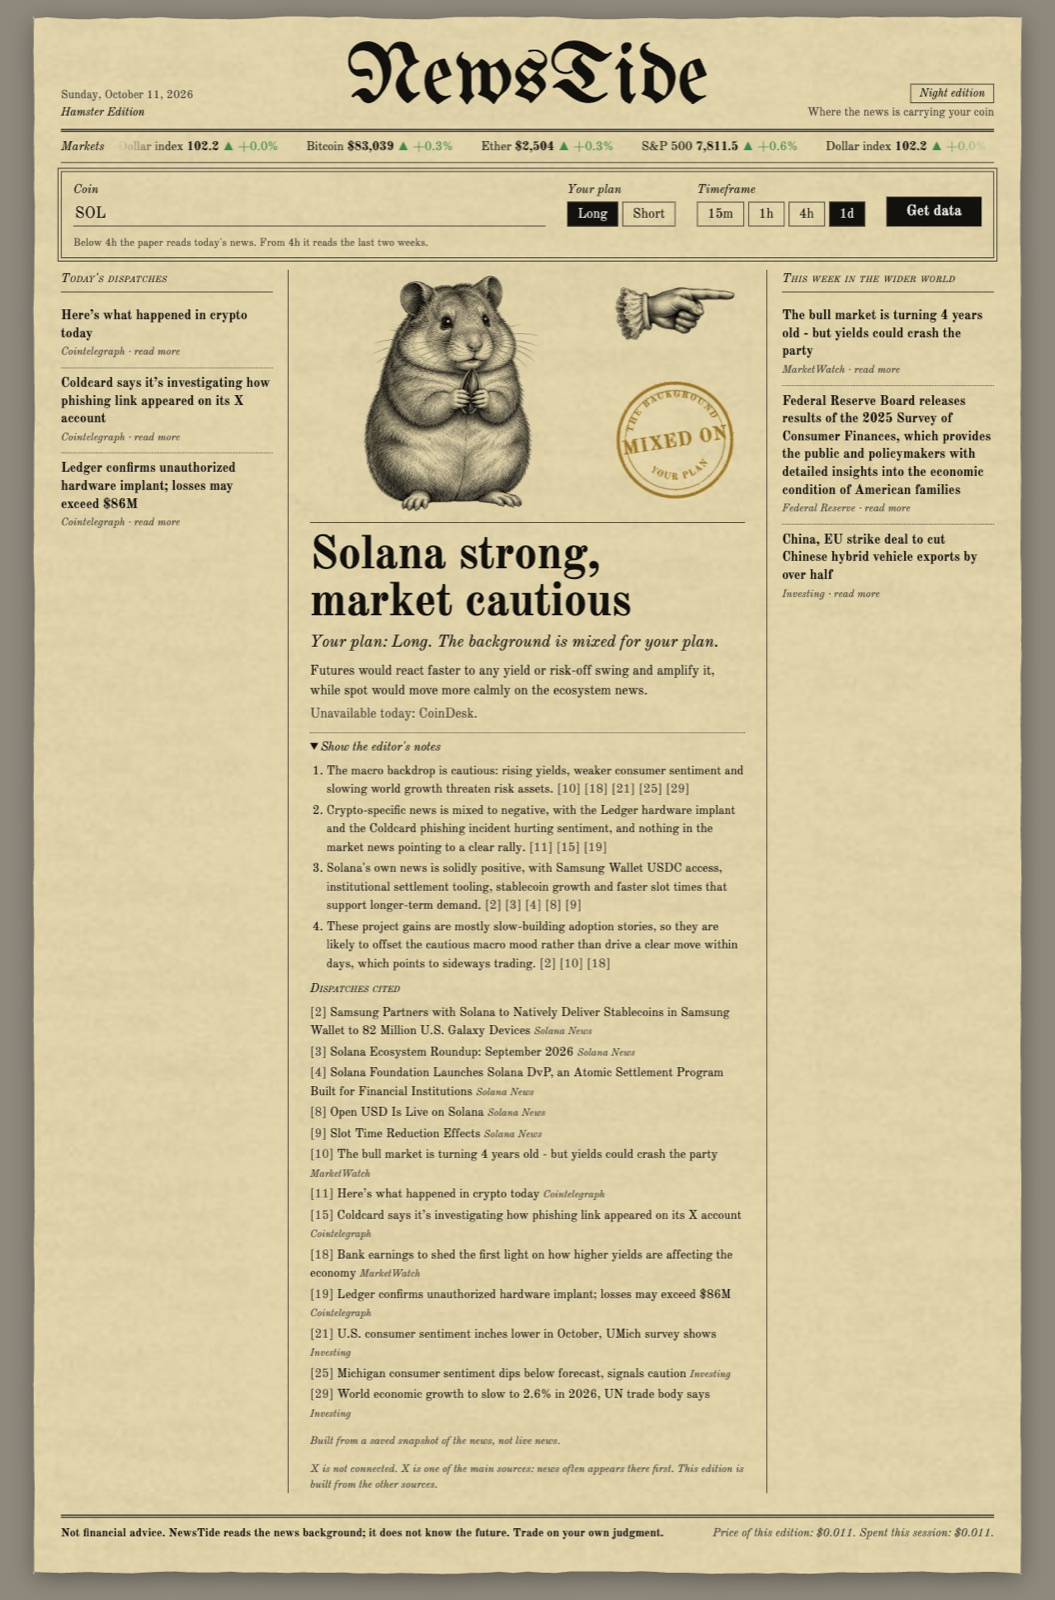
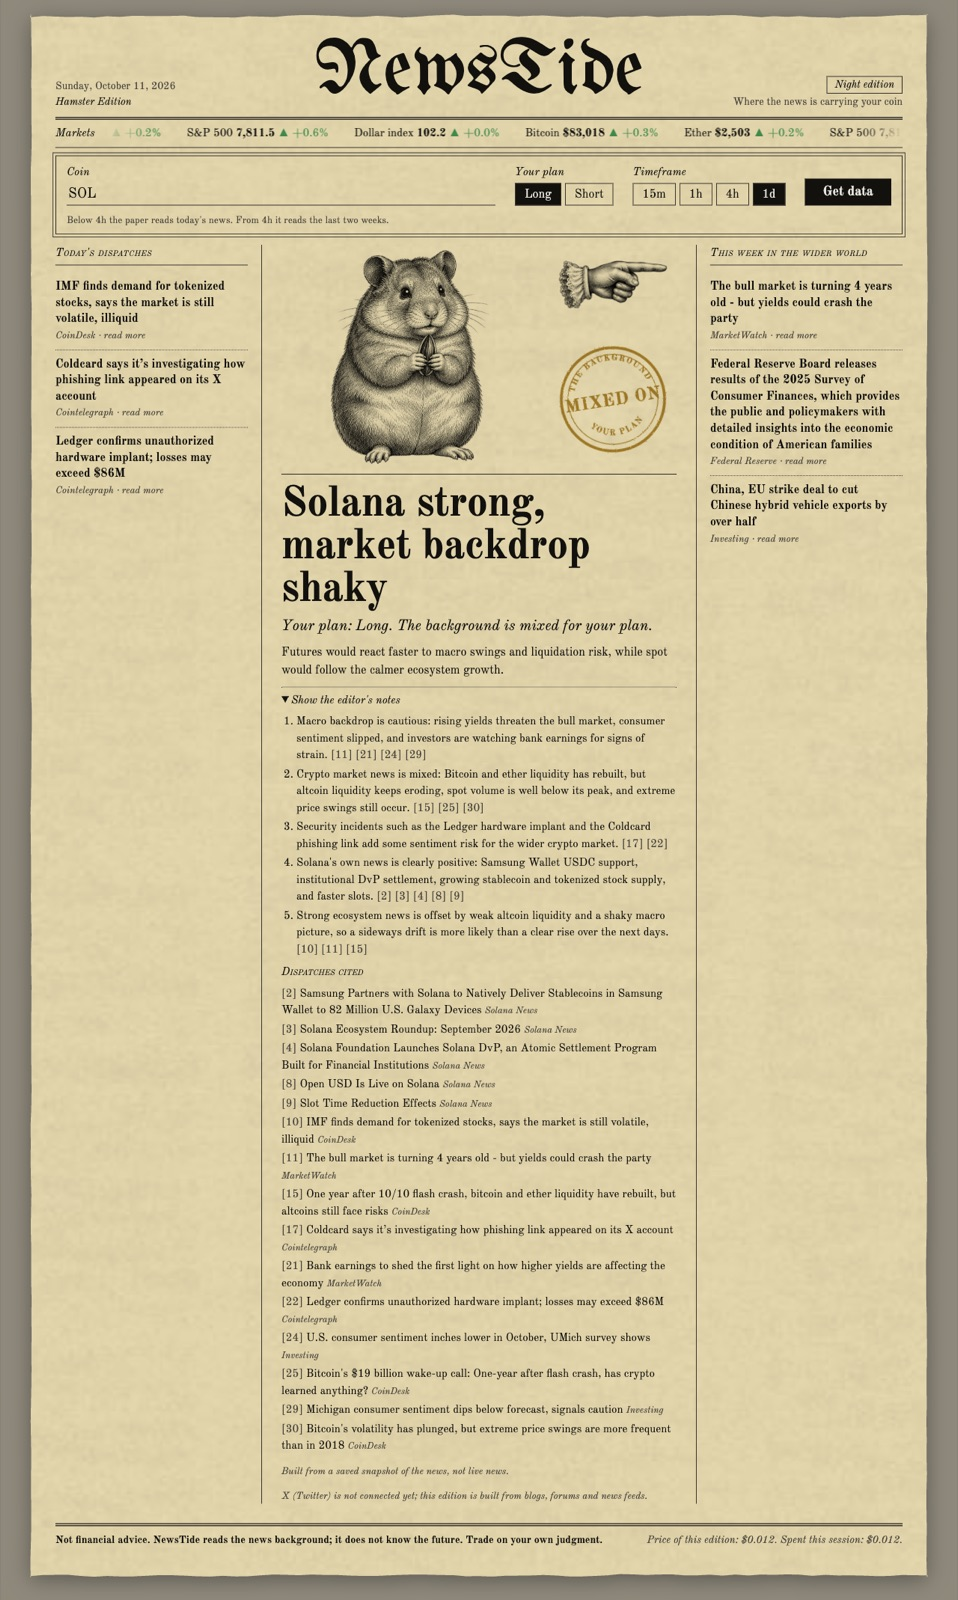
Pre-ship fixes from council review; docs match the build

Changed region(s): [[0.0303, 0.0, 0.9687, 1.0]]

diff --git a/server/index.js b/server/index.js
@@ -44,10 +44,12 @@ function costOf(usage, model) {
 }
 
 app.post('/api/analyze', async (req, res) => {
-  const { coin: symbol, plan, timeframe } = req.body ?? {};
+  const { plan, timeframe } = req.body ?? {};
+  const symbol = String(req.body?.coin ?? '').trim().toUpperCase();
   const coin = coins.find(c => c.symbol === symbol);
   if (!coin || !['long', 'short'].includes(plan) || !TIMEFRAMES.includes(timeframe)) {
-    return res.status(400).json({ error: 'Pick a coin from the list, Long or Short, and a timeframe.' });
+    const what = !coin ? 'Pick ETH, SOL or AAVE.' : !['long', 'short'].includes(plan) ? 'Choose Long or Short.' : 'Choose a timeframe: 15m, 1h, 4h or 1d.';
+    return res.status(400).json({ error: what });
   }
   const at = new Date().toISOString();
   try {
@@ -86,8 +88,14 @@ app.post('/api/analyze', async (req, res) => {
   } catch (err) {
     console.error('[analyze]', err);
     const timeout = err?.name === 'APIConnectionTimeoutError' || /timed? ?out/i.test(String(err?.message));
-    res.status(502).json({ error: timeout ? 'Took too long. Try again in a moment.' : 'The paper could not be printed: ' + (err?.message ?? 'unknown error') });
+    res.status(502).json({ error: timeout ? 'Took too long. Try again in a moment.' : 'The paper could not be printed this time. Try again in a moment.' });
   }
+});
+
+// Broken requests (for example invalid JSON) get a short JSON answer, never a stack trace.
+app.use((err, req, res, next) => {
+  if (res.headersSent) return next(err);
+  res.status(err.status && err.status < 500 ? err.status : 500).json({ error: 'Bad request.' });
 });
 
 const port = Number(process.env.PORT) || 3000;

diff --git a/public/index.html b/public/index.html
@@ -105,10 +105,10 @@
           <p class="cited-head">Dispatches cited</p>
           <ul id="cited"></ul>
         </details>
-        <p class="sample-tag" id="resultSample" hidden>Sample answer for the design check. No AI and no live news yet.</p>
+        <p class="sample-tag" id="resultSample" hidden>Built from a saved snapshot of the news, not live news.</p>
       </article>
       <p class="form-error" id="resultError" hidden></p>
-      <p class="x-note" id="xNote">X is not connected. X is one of the main sources: news often appears there first. This edition is built from the other sources.</p>
+      <p class="x-note" id="xNote">X (Twitter) is not connected yet; this edition is built from blogs, forums and news feeds.</p>
     </section>
 
     <aside class="column" aria-labelledby="weekHead">

diff --git a/server/collect.js b/server/collect.js
@@ -47,7 +47,8 @@ export function parseFeed(xml, feed) {
       date: new Date(text(it.pubDate) || text(it.published) || text(it.updated) || text(it['dc:date']) || 0).toISOString(),
       summary: clean(text(it.description) || text(it.summary) || text(it['content:encoded'])).slice(0, 400)
     }))
-    .filter(it => it.title);
+    // Daily round-up pages carry no news of their own.
+    .filter(it => it.title && !/^here['\u2019]s what happened in crypto today$/i.test(it.title));
 }
 
 async function fetchFeed(feed, timeoutMs = 12000) {

diff --git a/server/check.js b/server/check.js
@@ -40,7 +40,7 @@ export function check(answer, { plan, items }) {
     const bad = cites.filter(n => !numbers.has(n));
     if (!cites.length) problems.push(`step ${i + 1} cites nothing`);
     if (bad.length) problems.push(`step ${i + 1} cites dispatches that do not exist: ${bad.join(', ')}`);
-    c.cites = cites.filter(n => numbers.has(n));
+    c.cites = [...new Set(cites.filter(n => numbers.has(n)))].sort((a, b) => a - b);
   });
   fixed.chain = chain;
   const citesOk = chain.length > 0 && chain.every(c => c.cites.length > 0);

diff --git a/public/app.js b/public/app.js
@@ -106,7 +106,6 @@ function showResult(r, plan) {
   $('missing').textContent = r.missing_sources?.length ? `Unavailable today: ${r.missing_sources.join(', ')}.` : '';
   $('xNote').hidden = r.x_connected;
   $('resultSample').hidden = !r.sample;
-  $('resultSample').textContent = 'Built from a saved snapshot of the news, not live news.';
 
   // Editor's notes: the reasoning chain, closed by default
   const notes = r.notes ?? { chain: [], dispatches: [] };

diff --git a/test/check.test.js b/test/check.test.js
@@ -50,3 +50,8 @@ test('only http and https links survive', () => {
   assert.equal(safeLink('data:text/html,x'), '');
   assert.equal(safeLink('not a url'), '');
 });
+
+test('citations are de-duplicated and sorted', () => {
+  const r = check({ ...base, chain: [{ step: 's', cites: [3, 1, 3, 2] }] }, { plan: 'long', items });
+  assert.deepEqual(r.answer.chain[0].cites, [1, 2, 3]);
+});

diff --git a/devpost/prd.md b/devpost/prd.md
@@ -5,28 +5,28 @@ status: approved
 
 # NewsTide - Product Requirements
 
-NewsTide ("the tide of news": where the wave of the news background is carrying the coin) is a one-page indicator for a crypto trader: before a trade he picks a coin, long or short, and a timeframe, and gets one simple verdict on the news background, shown as an arrow, a traffic light and a few words.
+NewsTide ("the tide of news": where the wave of the news background is carrying the coin) is a one-page indicator for a crypto trader: before a trade he picks a coin, long or short, and a timeframe, and gets one simple verdict on the news background, shown as a pointing hand, an ink stamp and a few words.
 Source: `scope.md > The Unique Kernel`, `scope.md > Who It's For`.
 
 ## The Core Journey
 Develops `scope.md > The Core Loop` and `scope.md > What "Working" Looks Like`.
 
-1. He opens the page. At the top he sees a market strip: Bitcoin price, Nasdaq, the main news of the day and of the week.
-2. First use: he is offered to connect his X account, with a short explanation of why (news from X is read through his account; X is where information appears first). He can connect or skip.
+1. He opens the page. At the top he sees a running tape of quotes (Bitcoin, Ether, S&P 500, dollar index) and the main news of the day and of the week.
+2. A short note says X is not connected yet and why X matters (information often appears there first). Connecting X is deferred: reading X is paid per post (decision in `4-spec`).
 3. In the center he types a coin. Suggestions appear so the coin is entered correctly. In this version the list holds ETH, SOL and AAVE.
 4. He chooses Long or Short.
 5. He chooses the timeframe. Below 4h means intraday analysis; 4h and above means medium-term analysis.
 6. He presses **Get data**. The page shows how much time is left while the background is gathered, up to one minute.
-7. The result appears at the bottom: an arrow, a traffic light, a short verdict, a bull, a bear or a hamster, and the whole page tints green, red or yellowish.
+7. The result appears as the lead story: a pointing hand, an ink stamp, a short verdict, a bull, a bear or a hamster, and the whole page tints green, red or yellowish.
 8. He makes his trade decision and comes back before the next trade.
 
 ## Screens and Layout
 One page, top to bottom:
-- **Market strip (top):** Bitcoin price, Nasdaq, main news of the day and the week. Nicely designed and easy to read, so the page does not look empty.
+- **Market strip (top):** a running tape of 4 quotes, main news of the day and the week. Nicely designed and easy to read, so the page does not look empty.
 - **Input area (center):** coin field with suggestions, Long/Short choice, timeframe choice, in this order, then the **Get data** button.
 - **Result (bottom):** the indicator.
 - **Theme switch:** dark or light background, chosen by the user.
-- **X connection:** offered on first use, with the reason; can be skipped.
+- **X note:** X is not connected in this version; a one-line note explains why it matters.
 
 ## Look and Feel
 - Simple and understandable for anyone; not bright, not complicated; few moving parts. RSI is the reference for simplicity only, the indicator does not have to look like RSI (`scope.md > Inspiration & Identity`).
@@ -62,9 +62,9 @@ Develops `scope.md > The Unique Kernel`.
 - **Verdict text:** a few words only, for example "growth expected for this coin", "neutral for now", or "correction".
 - **Bull, bear or hamster** next to the arrow, and the page tint.
 - **Spot/futures note:** a short note where it may play out differently on spot vs futures (`scope.md > The POC Boundary`).
-- No percentages. No list of news. No long explanations.
+- No percentages. No list of the collected news on the page (the closed editor's notes list only the dispatches the verdict cites). No long explanations.
 - As the trader, I want one glance to tell me if the background is with my plan or against it, so that I do not have to read and connect dozens of news myself.
-  - [ ] After the three choices, the result shows an arrow, a traffic light and a verdict of a few words.
+  - [ ] After the three choices, the result shows a pointing hand, a stamp and a verdict of a few words.
   - [ ] Long on a coin with a bearish background shows an arrow down, a red light, a cheerful bear and a red page.
   - [ ] Long on a coin with a bullish background shows an arrow up, a green light, a smiling bull and a light green page.
   - [ ] Neutral background shows an arrow sideways, a yellow light, a hamster and a light yellowish page.
@@ -77,24 +77,24 @@ Develops `scope.md > The Unique Kernel`.
 
 ### Background gathering (hidden from the user)
 The mechanics are not shown, but they are the heart of the product and must be worked out carefully. Sources in this version:
-- the coin's official open Telegram channel;
-- the coin's X, read through the user's connected X account;
+- the coin's official blog and forum (ETH, SOL and AAVE have no open official Telegram channel, see `4-spec`);
+- the coin's X: deferred, paid per post;
 - macroeconomic sites (for example Investing);
 - general crypto market news.
 
 Inside, the indicator builds a logical chain: one factor affects another, that affects a third, down to our coin, plus the coin's own news (what is planned, what is done) and how it may affect the price.
-- [ ] For each of ETH, SOL, AAVE the gathering uses the coin's Telegram channel and the other sources above.
+- [ ] For each of ETH, SOL, AAVE the gathering uses the coin's official blog or forum and the other sources above.
 
 ### Market strip
 - [ ] The top of the page shows a running line of 4 quotes: Bitcoin, Ether, S&P 500, dollar index. It scrolls, fades out at the edge and repeats.
 - [ ] Main news of the day and the week are short headlines; clicking one opens a short summary and a link to the full story. These are market-wide news, not tied to one coin.
 
 ### X connection
-- [ ] On first use the page offers to connect X and explains why.
+- [ ] The page notes that X is not connected and why it matters.
 - [ ] Without X, the indicator still gives a verdict from the other sources, with a note that X is not connected and that X is one of the main sources, where information appears first.
 
 ## States and Boundaries
-- **First use:** X connection offer with the reason; skip is allowed.
+- **X not connected:** a one-line note; the verdict comes from the other sources.
 - **Without X:** verdict from the other sources plus the "X not connected" note.
 - **Bullish result:** arrow up, light green page, smiling bull.
 - **Bearish result:** arrow down, red page, cheerful bear.
@@ -103,14 +103,14 @@ Inside, the indicator builds a logical chain: one factor affects another, that a
 
 ## Product Decisions
 - No percentages: a model would invent the number; the learner called them "a bad idea" and chose a graphical direction.
-- Arrow plus traffic light together: the arrow shows direction, the light shows support for the plan.
+- Arrow plus traffic light together: the arrow shows direction, the light shows support for the plan. Later replaced by a pointing hand and an ink stamp after the design council (same meaning, one style).
 - News list is not shown: "the main thing is that a person sees just the conclusion"; the gathering is hidden. Exception agreed after the council: a closed "Show the editor's notes" line under the verdict opens the reasoning chain with the numbers of the cited dispatches, so a judge can see the verdict is not invented.
 - Name NewsTide: chosen from checked candidates; CoinPulse was rejected as heavily used (535 GitHub repos, an App Store crypto tracker, a Coinpulse token platform), and three-letter acronyms as mostly taken.
 - Neutral is a light yellowish page with a hamster.
 - Waiting shows the time remaining, up to one minute.
 - Newspaper-style design with custom illustrations: the review page looked "written by AI"; the learner wants a look tied to crypto and news, like an old newspaper.
 - Three coins now (ETH, SOL, AAVE), with suggestions; the list must be easy to extend later.
-- Telegram instead of Discord: Discord is closed to non-members; the official Telegram channel is open.
+- Telegram instead of Discord: Discord is closed to non-members. Later, in `4-spec`, no open official Telegram channels were found for ETH, SOL, AAVE, so official blogs and forums replaced Telegram.
 - The official website is skipped: projects usually do not publish news there.
 - X through the user's account; without X the indicator still works, with a note.
 - The timeframe decides intraday vs medium-term analysis. Picker: 15m, 1h, 4h, 1d.
@@ -120,11 +120,11 @@ Inside, the indicator builds a logical chain: one factor affects another, that a
 ## What We're Building
 - One page with the market strip, coin input with suggestions (3 coins), Long/Short, timeframe, and the indicator result.
 - Dark and light themes; page tint and bull/bear by result.
-- Background gathering from Telegram, X (when connected), macro sites, crypto news, reduced to one verdict.
-- X connection offer and the "without X" fallback.
+- Background gathering from the coins' official blogs and forums, macro sites and crypto news, reduced to one verdict.
+- The "X not connected" note.
 
 ## Deferred From the POC
-- Full coin list from CoinMarketCap: each coin needs its own Telegram and X sources; three coins prove the idea. The list must be extendable.
+- Full coin list from CoinMarketCap: each coin needs its own official sources; three coins prove the idea. The list must be extendable.
 - Discord: closed to non-members.
 - Geopolitics, stock market news, Bitcoin dominance, gold, oil: second stage, after the first sources work.
 - TradingView indicator: Pine Script cannot fetch news itself (to verify in `4-spec`).

diff --git a/devpost/spec.md b/devpost/spec.md
@@ -9,7 +9,7 @@ status: approved
 NewsTide is two small pieces running on Dima's Mac.
 
 1. **The page** is what you see in the browser: a newspaper-style front page with the market strip on top, the coin field, Long/Short, the timeframe, the **Get data** button and the indicator at the bottom. It is plain HTML, CSS and JavaScript, no framework (a framework is "a pile of decisions already made for you"; one page does not need it).
-2. **The little server** is a program on the same Mac. When you press Get data, the page asks the server. The server reads the news feeds (official project blogs and forums, crypto news, Investing, the US Federal Reserve), cuts them down to what matters for your coin and timeframe, and sends them to the AI model with one question: "given this background, where does the tide carry this coin, and is it with or against this plan?" The model answers in a fixed shape (arrow, light, a few words). The server passes that back to the page, together with what the answer cost.
+2. **The little server** is a program on the same Mac. When you press Get data, the page asks the server. The server reads the news feeds (official project blogs and forums, crypto news, Investing, the US Federal Reserve), cuts them down to what matters for your coin and timeframe, and sends them to the AI model with one question: "given this background, where does the tide carry this coin, and is it with or against this plan?" The model answers in a fixed shape (direction, whether it fits the plan, a few words, and the reasoning with citations). The server passes that back to the page, together with what the answer cost.
 
 Why a server at all: the Anthropic key must never be inside the page (anyone could read it), and many sites do not hand their feeds directly to a browser. Why nothing bigger: one person, one Mac, one video. No accounts, no database, no hosting.
 
@@ -18,7 +18,7 @@ You start it with one command, `npm start`, and open `http://localhost:3000`. No
 ## The Core Journey Through the System
 PRD ref: `prd.md > The Core Journey`.
 
-1. You open `localhost:3000` → the page asks the server for `/api/market` → the server fetches Bitcoin price (CoinGecko), Nasdaq (Yahoo Finance) and the newest headlines → the strip fills in.
+1. You open `localhost:3000` → the page asks the server for `/api/market` → the server fetches Bitcoin and Ether (CoinGecko), the S&P 500 and the dollar index (Yahoo Finance) and the newest headlines → the strip fills in.
 2. The page shows the X connection notice → in this version X is not built, so the notice says X is not connected and why it matters (see `What Was Simplified and Why`).
 3. You type a coin → the page suggests from the coin list it got from `/api/coins` (ETH, SOL, AAVE) → only a listed coin can be submitted.
 4. You choose Long or Short → kept in the page.
@@ -27,7 +27,7 @@ PRD ref: `prd.md > The Core Journey`.
 7. The server gathers: the coin's official feeds plus market-wide feeds, keeps items from the last 24 hours (intraday) or the last 14 days (medium-term), numbers them, and sends them to the model.
 8. The model returns `direction`, `plan_fit`, `verdict`, `spot_futures_note` and a hidden `chain` of cause and effect that cites item numbers.
 9. The server checks the answer against the rules (see `Answer Checker`), computes the cost from the token counts, saves the full run to a log file, and returns the visible parts plus the cost.
-10. The page shows the arrow, the traffic light, the verdict, the bull, bear or hamster, tints the page, and updates the cost counter.
+10. The page shows the pointing hand, the stamp, the verdict, the bull, bear or hamster, tints the page, and updates the cost counter.
 
 ## Stack
 - **Node.js 24** (installed: v24.14.1) runs the server. Its built-in `fetch` reads feeds; built-in `--env-file` loads `.env`, so no extra library for that. Docs: https://nodejs.org/docs/latest-v24.x/api/
@@ -50,7 +50,7 @@ PRD ref: `prd.md > The Core Journey`.
 Carries `prd.md > Look and Feel` and `scope.md > Inspiration & Identity`.
 - **An old printed newspaper being opened.** Off-white newsprint background, black ink, thin column rules, a masthead "NewsTide" at the top like a newspaper title, date line under it.
 - **Typography:** a classic newspaper serif for the masthead and headlines (for example Old Standard TT or Playfair Display from Google Fonts), a readable serif for small text. Uppercase small labels like section names.
-- **Market strip** as a ticker line under the masthead: BTC, Nasdaq, then "Today" and "This week" headlines in narrow columns.
+- **Market strip** as a running tape under the masthead: Bitcoin, Ether, S&P 500, dollar index, then "Today" and "This week" headlines in narrow columns.
 - **Dark theme** as a "night edition": dark paper, light ink. A small switch in the masthead corner.
 - **Verdict tints:** the paper washes light green (bullish), red (bearish), light yellowish (neutral). Gentle color, not bright.
 - **Pointing hand** (engraved manicule, `public/img/hand.jpg`, rotated by CSS) and **round ink stamp** (inline SVG with a rough-edge filter) replace the arrow and the traffic light.
@@ -68,8 +68,8 @@ Carries `prd.md > Look and Feel` and `scope.md > Inspiration & Identity`.
 PRD ref: `prd.md > Screens and Layout`, `prd.md > Coin input`, `prd.md > Plan and timeframe`, `prd.md > Waiting for the result`.
 
 ### Indicator View
-Part of `public/app.js`: turns the answer into arrow, light, verdict, animal, page tint, spot/futures note and the "X not connected" note.
-- direction `up` → arrow up, bull, green tint; `down` → arrow down, bear, red tint; `sideways` → arrow sideways, hamster, yellowish tint.
+Part of `public/app.js`: turns the answer into pointing hand, stamp, verdict, animal, page tint, spot/futures note and the "X not connected" note.
+- direction `up` → hand points up, bull, green tint; `down` → hand points down, bear, red tint; `sideways` → hand points sideways, hamster, yellowish tint.
 - plan_fit `supports` → green light; `mixed` → yellow; `against` → red.
 PRD ref: `prd.md > The indicator (result)`, `prd.md > States and Boundaries`.
 
@@ -78,7 +78,7 @@ Small line under the result: "This analysis: $0.02 · This session: $0.10". Sess
 PRD ref: learner decision in `4-spec` (see `Decisions and Open Issues`); supports the business model in `prd.md > Possible Later Enhancements`.
 
 ### Market Strip Service
-`server/market.js`, route `GET /api/market`. A running tape of quotes: BTC, ETH, SOL, AAVE from CoinGecko; Nasdaq (^IXIC), S&P 500 (^GSPC), Dow Jones (^DJI), gold (GC=F), Brent oil (BZ=F), dollar index (DX-Y.NYB), EUR/USD (EURUSD=X), US 10-year yield (^TNX) from Yahoo Finance; each headline carries a short summary and link from its feed, opened on click; "Today": 3 newest crypto headlines from the last 24 hours (Cointelegraph, CoinDesk); "This week": 3 newest macro items from the last 7 days (Federal Reserve, Investing, MarketWatch). Cached for 5 minutes.
+`server/market.js`, route `GET /api/market`. A running tape of 4 quotes (cut from 12 after the design council): Bitcoin and Ether from CoinGecko; S&P 500 (^GSPC) and dollar index (DX-Y.NYB) from Yahoo Finance; each headline carries a short summary and link from its feed, opened on click; "Today": 3 newest crypto headlines from the last 24 hours (Cointelegraph, CoinDesk); "This week": 3 newest macro items from the last 7 days (Federal Reserve, Investing, MarketWatch). Cached for 5 minutes.
 PRD ref: `prd.md > Market strip`.
 
 ### Coin Registry
@@ -196,5 +196,5 @@ Dima's learning goal is to check the model's work precisely. Nobody can check in
 **Still open**
 - Higgsfield cost per image: measure on the first image, show Dima before the rest.
 - Library versions: pin at install.
-- Yahoo Finance is unofficial; if it fails during recording, the Nasdaq cell shows "no data".
+- Yahoo Finance is unofficial; if it fails during recording, the S&P 500 and dollar index cells show "no data".
 - X official pricing page: verify before paying.

diff --git a/devpost/checklist.md b/devpost/checklist.md
@@ -90,3 +90,5 @@ Activity mode:
 - Market news is now taken in turns from each source (one busy feed, MarketWatch, was filling all macro slots). On Sunday 11.10 the 24-hour window holds only MarketWatch, Cointelegraph and CoinDesk; Fed and Investing appear in the 2-week window.
 - Live check: 3 of 3 live analyses on Haiku 5.5 came back "Neutral for now" (CoinDesk dropped once, the fallback worked). Haiku leans neutral on a quiet weekend; to compare with Sonnet 5.5 in slice 5 before recording.
 - Sonnet 5.5 on the same quiet Sunday news also gave 3 of 3 sideways/mixed, with a richer chain (about $0.011 and 5-6 s per analysis). So the neutral verdicts come from the news, not the model; the README says so. MODEL switched to claude-sonnet-5-5 in .env.
+- Pre-ship council (5 advisors tested the running app): fixed a stack trace with local paths on invalid JSON (now a short JSON error), clearer input errors, lower-case coins accepted, citations sorted and de-duplicated, daily round-up pages filtered from news, stale sample text removed, X note shortened, PRD and spec brought in line with what was built (pointing hand and stamp, official blogs and forums instead of Telegram, 4-quote tape, X deferred). All five advisors wrongly read the rules as forbidding scope/prd/spec in the repo; the official rules (Project Requirements) require them, so they stay.
+- Sonnet on the saved Sunday snapshot keeps returning sideways/mixed. To decide with Dima: record the video on a weekday with live news, and whether the prompt may lean on clearly positive or negative project news when macro is mixed.
